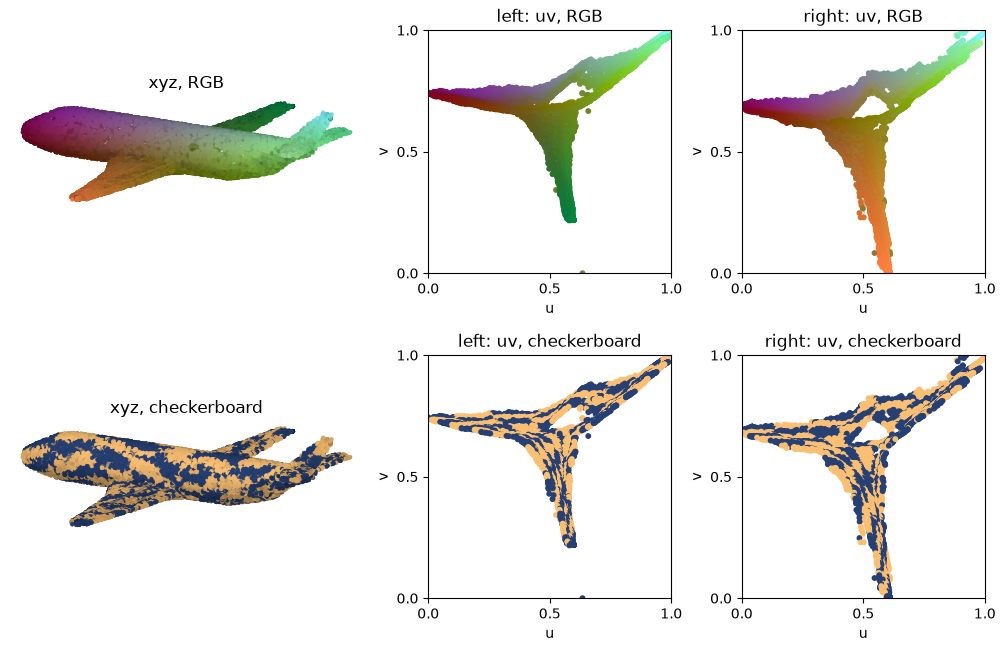
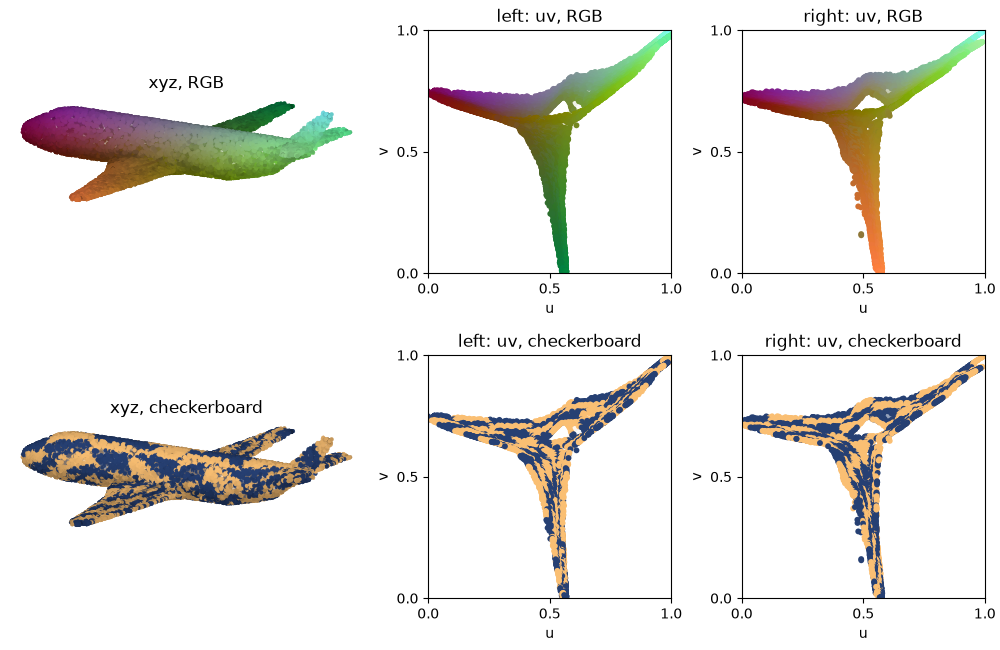
larger stencil

diff --git a/src/flatpoints/viz.py b/src/flatpoints/viz.py
@@ -23,7 +23,7 @@ LIGHT = 1.0  # strength of the background quads in (u, v): 0 = white, 1 = full c
 def plot(flat, squares=8):
     """First column: all the faces in 3D. Then one column per face in (u, v).
     First row coloured by RGB, second row by a checkerboard of `squares` x `squares`."""
-    st = max(1, flat._n // 100)  # downsampling for faster plot
+    st = max(1, flat._n // 110)  # downsampling for faster plot
     s, k = slice(None, None, st), len(flat.faces)
     xyz = {f: flat.points[flat.indexes[f][s, s]] for f in flat.faces}
     uv = {f: flat.isomap[f][s, s] for f in flat.faces}
@@ -52,16 +52,14 @@ def plot(flat, squares=8):
     return fig
 
 
-def imshow(flat, colors="rgb", squares=4, sigma=2):
-    """The grids as images, one per face: colors "rgb" (normalised x, y, z, smoothed by a
+def imshow(xyz, sigma=2):
+    """The xyz grids (n, n, 3) as images: colors "rgb" (normalised x, y, z, smoothed by a
     Gaussian of `sigma` cells) or "checkerboard"."""
-    fig, axes = plt.subplots(1, len(flat.faces), figsize=(4 * len(flat.faces), 4.4),
-                             squeeze=False, layout="constrained")
-    for ax, (f, im) in zip(axes[0], _rgb(flat).items()):
-        ax.imshow(gaussian_filter(im, (sigma, sigma, 0)) if colors == "rgb"
-                  else _checker(flat._n, squares), interpolation="nearest")
-        ax.set_title(f"{f}: grid, {colors}")
-        ax.set_axis_off()
+    points = xyz.reshape(-1, 3)
+    fig, ax = plt.subplots()
+    lo, hi = points.min(0)[None, None], points.max(0)[None, None]
+    ax.imshow(gaussian_filter((xyz - lo)/(hi - lo), (sigma, sigma, 0)), interpolation="nearest")
+    ax.set_axis_off()
     return fig
 
 

diff --git a/src/flatpoints/core.py b/src/flatpoints/core.py
@@ -19,10 +19,10 @@ from .utils import grid_sort, landmarks, orient
 
 # Grid graph used for geodesics: each cell is linked to the cells at most RADIUS rows and
 # columns away.
-RADIUS = 3
+RADIUS = 4
 # Penalty on long edges (relative to the typical edge length), so that shortest paths
 # follow the surface instead of jumping across gaps between non-adjacent parts.
-EPS = 0.3
+EPS = 0.1
 
 
 def layout(P, ab, n, verbose=False, rotation=True):
@@ -99,13 +99,13 @@ def geodesics(grid, real, sources, radius=RADIUS, eps=EPS):
     graph = lambda w: coo_matrix((w, (i, j)), shape=(n * n, n * n)).tocsr()  # noqa: E731
 
     # Shortest paths for the penalised cost x + eps * x^2 / h (long edges cost more)...
-    cost, pred = dijkstra(graph(x + eps * x**2 / h), directed=False, indices=sources,
+    cost, pred = dijkstra(graph(x*(1 + eps * x / h)), directed=False, indices=sources,
                           return_predecessors=True)
 
     # ...but measured with their true length, the sum of x along each path. Each cell
     # starts with the length of the edge to its predecessor; pointer doubling then adds
     # up the edges back to the source in log2(n*n) steps.
-    X = graph(x)
+    X = graph(x*(1 + eps * x / h))
     X = X + X.T
     rows = np.arange(len(sources))[:, None]
     up = np.where(pred >= 0, pred, np.arange(n * n))  # source/unreached: points to itself

diff --git a/src/flatpoints/api.py b/src/flatpoints/api.py
@@ -41,12 +41,10 @@ class Flat:
         flat = Flat(points)
         idx = flat.indexes["left"]     # (n, n)
         uv = flat.isomap["left"]       # (n, n, 2)
-        xyz = points[idx]              # (n, n, 3)
+        xyz = flat.points[idx]         # (n, n, 3), not points[idx]: see max_sample_size
     """
 
-    def __init__(self, points, single_face=False, lateral="x", up="z", verbose=False, max_sample_size = 10_000):
-        if len(points) >= max_sample_size:
-            points = np.random.permutation(np.asarray(points, float))[:max_sample_size]
+    def __init__(self, points, single_face=False, lateral="x", up="z", verbose=False):
         self.points = np.asarray(points, float)
         self._lateral, self._up = lateral, up
         self.faces = ("main",) if single_face else ("left", "right")

diff --git a/README.md b/README.md
@@ -4,7 +4,9 @@ Turn a point cloud sampled on a surface into square `(n, n)` images, where neigh
 pixels hold points that are close **on the surface**. You can then use 2D tools on it:
 convolutions, SVD, image codecs…
 
-![horse](plots/bunny.png)
+![bunny](plots/bunny.png)
+![airplane](plots/airplane.png)
+![dragon](plots/dragon.png)
 
 ## Install
 
@@ -20,13 +22,12 @@ import flatpoints as fp
 
 points = np.load("data/bunny_points.npy")   # (N, 3)
 flat = fp.Flat(points)                      # faces "left" and "right"
+fp.plot(flat)  #show flattening
 
 idx = flat.indexes["left"]   # (n, n)     index of each pixel's point
 uv  = flat.isomap["left"]    # (n, n, 2)  flat coordinates (u, v) in [0, 1]
 xyz = points[idx]            # (n, n, 3)  the cloud as an image
-
-fp.plot(flat)     # 3D view + (u, v) of each face
-fp.imshow(flat)     # the grids as images
+fp.imshow(xyz) #rgb chanels
 ```
 
 Use `fp.Flat(points, single_face=True)` for an open surface.
